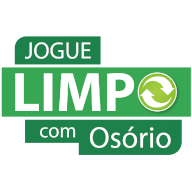
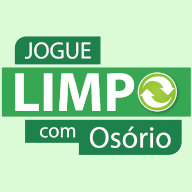
Calendar Events and Accordions visual changes

diff --git a/source/Complaints.js b/source/Complaints.js
@@ -1,6 +1,8 @@
 import React, { useEffect, useState } from 'react';
 import { useNavigation } from 'react-navigation-hooks';
-import { StyleSheet, View, Image, Platform, StatusBar } from 'react-native';
+import * as Permissions from 'expo-permissions';
+import * as IntentLauncher from 'expo-intent-launcher';
+import { StyleSheet, View, Platform, StatusBar, Linking, Alert } from 'react-native';
 import { Container, Header, Content, Footer, FooterTab, Form, Label, Picker, Textarea, Item, Button, Input, Title, Left, Right, Body, Icon, Text, ListItem, H1, H2 } from 'native-base';
 import styles from './styles';
 
@@ -12,6 +14,30 @@ export default function Complaints() {
   const [ text, setText ] = useState('');
   const [ inputError, setInputError ] = useState(false);
   const [ selected, setSelected ] = useState("0");
+  const [ permission, setPermission ] = useState("undetermined");
+
+  async function getPermission(){
+    const status = await Permissions.askAsync(Permissions.CAMERA_ROLL);
+    
+    setPermission(status.status);
+    console.log(status);
+
+    // Redirect to app settings to grant permission manually
+    // if (status.status !== 'granted') {
+    //   if(Platform.OS === 'android'){
+    //     IntentLauncher.startActivityAsync(IntentLauncher.ACTION_APPLICATION_SETTINGS);
+    //   } else if(Platform.OS === 'ios'){
+    //     Linking.openURL('app-settings:');
+    //   }
+    //   return;
+    // }
+  }
+
+  useEffect(() => {
+    getPermission();
+
+    console.log(permission);
+  }, []);
 
   return (
     <Container>
@@ -56,7 +82,7 @@ export default function Complaints() {
             </Item>
             <View style={styles.pickerContainer}>
               <Icon name='clipboard'/> 
-              <Text style={{ paddingBottom: 1.5, paddingStart: 5 }}> Qual o tipo da denúncia?</Text>
+              <Text style={{ paddingBottom: 1.5, paddingStart: 2, marginEnd: 50 }}> Qual o tipo da denúncia?</Text>
               <Picker
                 mode='dropdown'
                 iosIcon={<Icon name='arrow-down' />}
@@ -65,6 +91,20 @@ export default function Complaints() {
                 onValueChange={(itemValue, itemIndex) => setSelected(itemValue)}
                 itemStyle={styles.pickerIosListItemContainer}
                 itemTextStyle={styles.pickerIosListItemText}
+                supportedOrientations='portrait'
+                placeholder='Selecione uma opção'
+                renderHeader={backAction =>
+                  <Header style={styles.anatomy} androidStatusBarColor='#529C52'>
+                    <Left style={styles.sideHeaderButtonContainer}>
+                      <Button transparent onPress={backAction}>
+                        <Icon name='arrow-back' style={styles.whiteButtons} />
+                      </Button>
+                    </Left>
+                    <Body style={{flex: 1, alignItems: 'center', paddingStart: 30}}>
+                      <Title style={styles.whiteButtons}>Tipo de denúncia</Title>
+                    </Body>
+                    <Right />
+                  </Header>}
               >
                 {options.map((item, index) => {
                   return (<Picker.Item label={item} value={index} key={index} />) 
@@ -72,6 +112,24 @@ export default function Complaints() {
               </Picker>
             </View>
             <Textarea style={styles.textarea} rowSpan={3} bordered placeholder='Descreva sua denúncia' />
+            <ListItem icon noBorder>
+                <Left>
+                  <Icon name='camera'/>
+                </Left>
+                <Body>
+                  <Text>Fotos:</Text>
+                </Body>
+                <Right style={{paddingEnd: 0}}>
+                  <Button transparent >
+                    <Icon name='aperture' style={styles.greenButtons} />
+                  </Button>
+                  <Button transparent >
+                    <Icon name='images' style={styles.greenButtons} onPress={getPermission}/>
+                  </Button>
+                </Right>
+            </ListItem>
+            <View>
+            </View>
           </Form>
         </View>
       </Content>

diff --git a/source/styles.js b/source/styles.js
@@ -4,6 +4,8 @@ import { StyleSheet, Platform } from 'react-native';
 const mainColor = '#1d814c';
 const secondaryColor = '#eaffe3';
 const accentColor = '#dffad6';
+const cardColor = '#dbfad6';
+const bordersColor = '#caebc5';
 
 export default styles = StyleSheet.create({
   content: {
@@ -16,7 +18,13 @@ export default styles = StyleSheet.create({
     padding: 15,
   },
   calendarBackground: {
-    backgroundColor: '#dbfad6'
+    backgroundColor: cardColor,
+    marginBottom: 8,
+    borderTopStartRadius: 25,
+    borderBottomEndRadius: 25,
+    borderBottomWidth: 3,
+    borderEndWidth: 3,
+    borderColor: bordersColor
   },
   calendarContainer: {
     paddingTop: 20,
@@ -49,6 +57,9 @@ export default styles = StyleSheet.create({
   },
   h3s: {
     margin: 10,
+    borderBottomEndRadius: 25,
+    borderBottomWidth: 3,
+    borderColor: bordersColor
   },
   aboutTitle: {
     marginBottom: 10,
@@ -108,12 +119,15 @@ export default styles = StyleSheet.create({
   whiteButtons: {
     color: 'white',
   },
+  greenButtons: {
+    color: mainColor,
+  },
   pickerContainer: {
     flex: 1,
     flexDirection: 'row',
     justifyContent: 'space-between',
     alignItems: 'center',
-    padding: 15,
+    paddingStart: 15,
   },
   pickerIosListItemContainer: {
     flex: 1,
@@ -156,14 +170,20 @@ export default styles = StyleSheet.create({
   },
   accordionHeader: {
     textAlign: 'justify',
-    backgroundColor: '#a3e6a1'
+    backgroundColor: cardColor,
   },
   accordionContent: {
+    borderColor: secondaryColor,
     textAlign: 'justify',
     backgroundColor: secondaryColor
   },
   accordionContainer: {
     marginTop: 0, 
     backgroundColor: secondaryColor
+  },
+  accordionComponent: {
+    borderColor: bordersColor, 
+    borderWidth: 2
   }
+
 });

diff --git a/source/Navigation/Sidebar.js b/source/Navigation/Sidebar.js
@@ -2,8 +2,9 @@ import React from 'react';
 import { Image, TouchableOpacity } from 'react-native';
 import { Content, Text, List, ListItem, Icon, Container, Left, Right, Badge } from 'native-base';
 import style from './style';
+import styles from '../styles';
 
-const drawerCover = require('../../assets/drawerBackground.png');
+const drawerCover = require('../../assets/icon.png');
 const buttons = [
   {
     name: "Calendário",
@@ -60,7 +61,7 @@ class SideBar extends React.Component {
     return (
       <Container style={style.content}>
         <Content bounces={false} style={{ flex: 1, top: -1 }}>
-          <TouchableOpacity activeOpacity={.7} onPress={() => this.props.navigation.navigate('Home')}>
+          <TouchableOpacity style={styles.calendarBackground}  activeOpacity={.7} onPress={() => this.props.navigation.navigate('Home')}>
             <Image source={drawerCover} style={style.drawerCover} />
           </TouchableOpacity>
           

diff --git a/source/DestinationTabs/Mercury.js b/source/DestinationTabs/Mercury.js
@@ -19,7 +19,7 @@ export default function Mercury() {
         <Text style={styles.generalTexts}>Legislação que define a Logística Reversa de Lâmpadas de Mercúrio:</Text>
       </View>
       <Content padder style={{ marginTop: 5}}>
-        <Accordion dataArray={mercuryLaws} headerStyle={styles.accordionHeader} contentStyle={styles.accordionContent} />
+        <Accordion style={styles.accordionComponent} dataArray={mercuryLaws} headerStyle={styles.accordionHeader} contentStyle={styles.accordionContent} />
       </Content>
     </Content>
   );

diff --git a/source/Calendar.js b/source/Calendar.js
@@ -50,7 +50,9 @@ export default function Calendar() {
               renderRow={(data) =>
                 <ListItem itemDivider style={styles.calendarBackground}>
                   <View>
-                    <H3 style={styles.h3s}>{data.title}</H3>
+                    <View style={styles.titleBorder}>
+                      <H3 style={styles.h3s}>{data.title}</H3>
+                    </View>
                     <Text style={styles.generalTexts}>{data.description}</Text>
                   </View>
                 </ListItem> }

diff --git a/source/LawTabs/Federal.js b/source/LawTabs/Federal.js
@@ -15,7 +15,7 @@ const federalLaws = [
 export default function Federal(){
   return (
     <Content padder style={styles.accordionContainer}>
-      <Accordion dataArray={federalLaws} headerStyle={styles.accordionHeader} contentStyle={styles.accordionContent}/>
+      <Accordion style={styles.accordionComponent} dataArray={federalLaws} headerStyle={styles.accordionHeader} contentStyle={styles.accordionContent}/>
     </Content>
   );
 }

diff --git a/source/LawTabs/State.js b/source/LawTabs/State.js
@@ -11,7 +11,7 @@ const stateLaws = [
 export default function State() {
   return (
     <Content padder style={styles.accordionContainer}>
-      <Accordion dataArray={stateLaws} headerStyle={styles.accordionHeader} contentStyle={styles.accordionContent}/>
+      <Accordion style={styles.accordionComponent} dataArray={stateLaws} headerStyle={styles.accordionHeader} contentStyle={styles.accordionContent}/>
     </Content>
     );
 }

diff --git a/source/LawTabs/City.js b/source/LawTabs/City.js
@@ -19,7 +19,7 @@ const cityLaws = [
 export default function City() {
   return (
     <Content padder style={styles.accordionContainer}>
-      <Accordion dataArray={cityLaws} headerStyle={styles.accordionHeader} contentStyle={styles.accordionContent}/>
+      <Accordion style={styles.accordionComponent} dataArray={cityLaws} headerStyle={styles.accordionHeader} contentStyle={styles.accordionContent}/>
     </Content>
   );
 }

diff --git a/source/Navigation/style.js b/source/Navigation/style.js
@@ -11,10 +11,10 @@ export default {
   drawerCover: {
     alignSelf: 'stretch',
     resizeMode: 'contain',
-    height: deviceHeight / 5.25,
+    height: deviceHeight / 5,
     width: null,
     position: 'relative',
-    marginBottom: 10
+    marginBottom: 5,
   },
   text: {
     fontWeight: Platform.OS === 'ios' ? '500' : '400',
